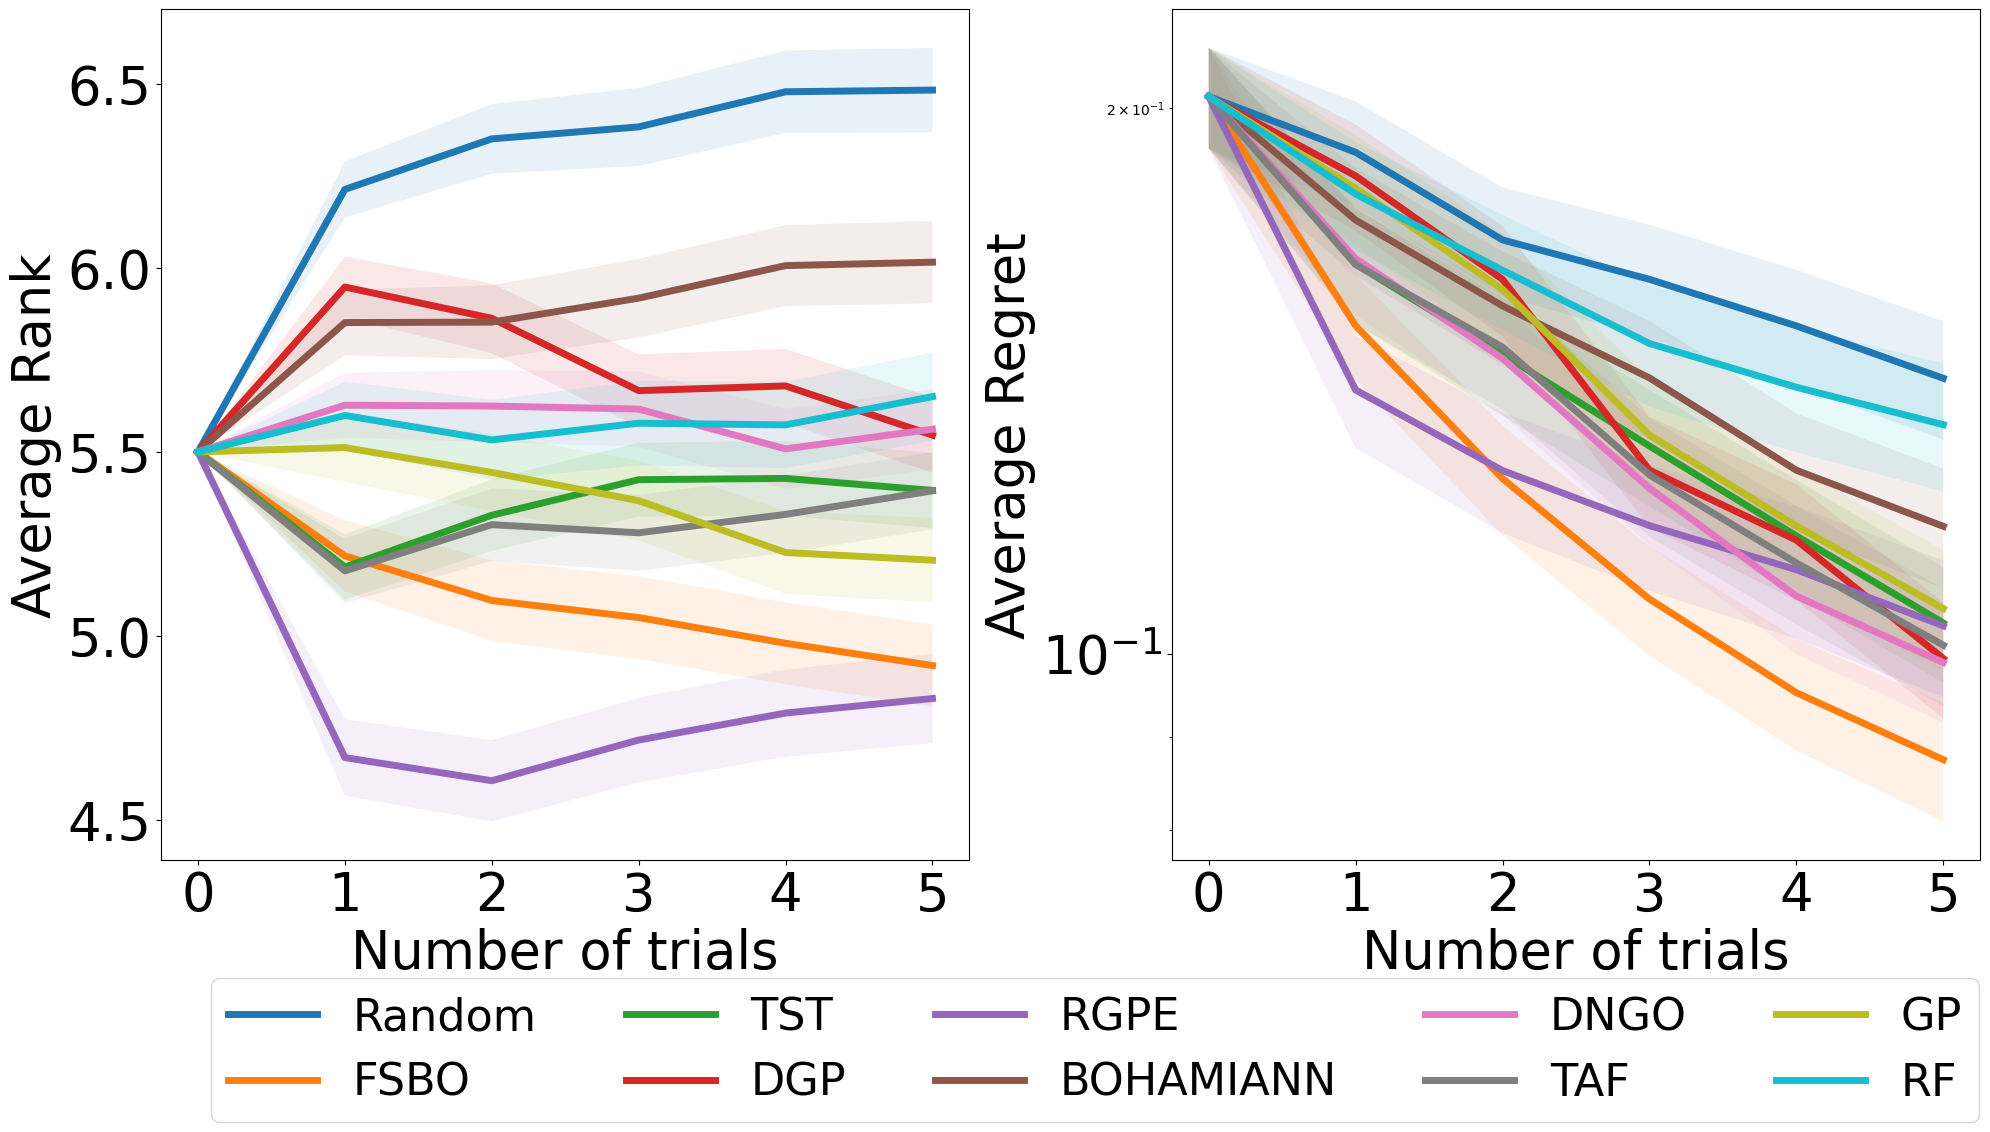
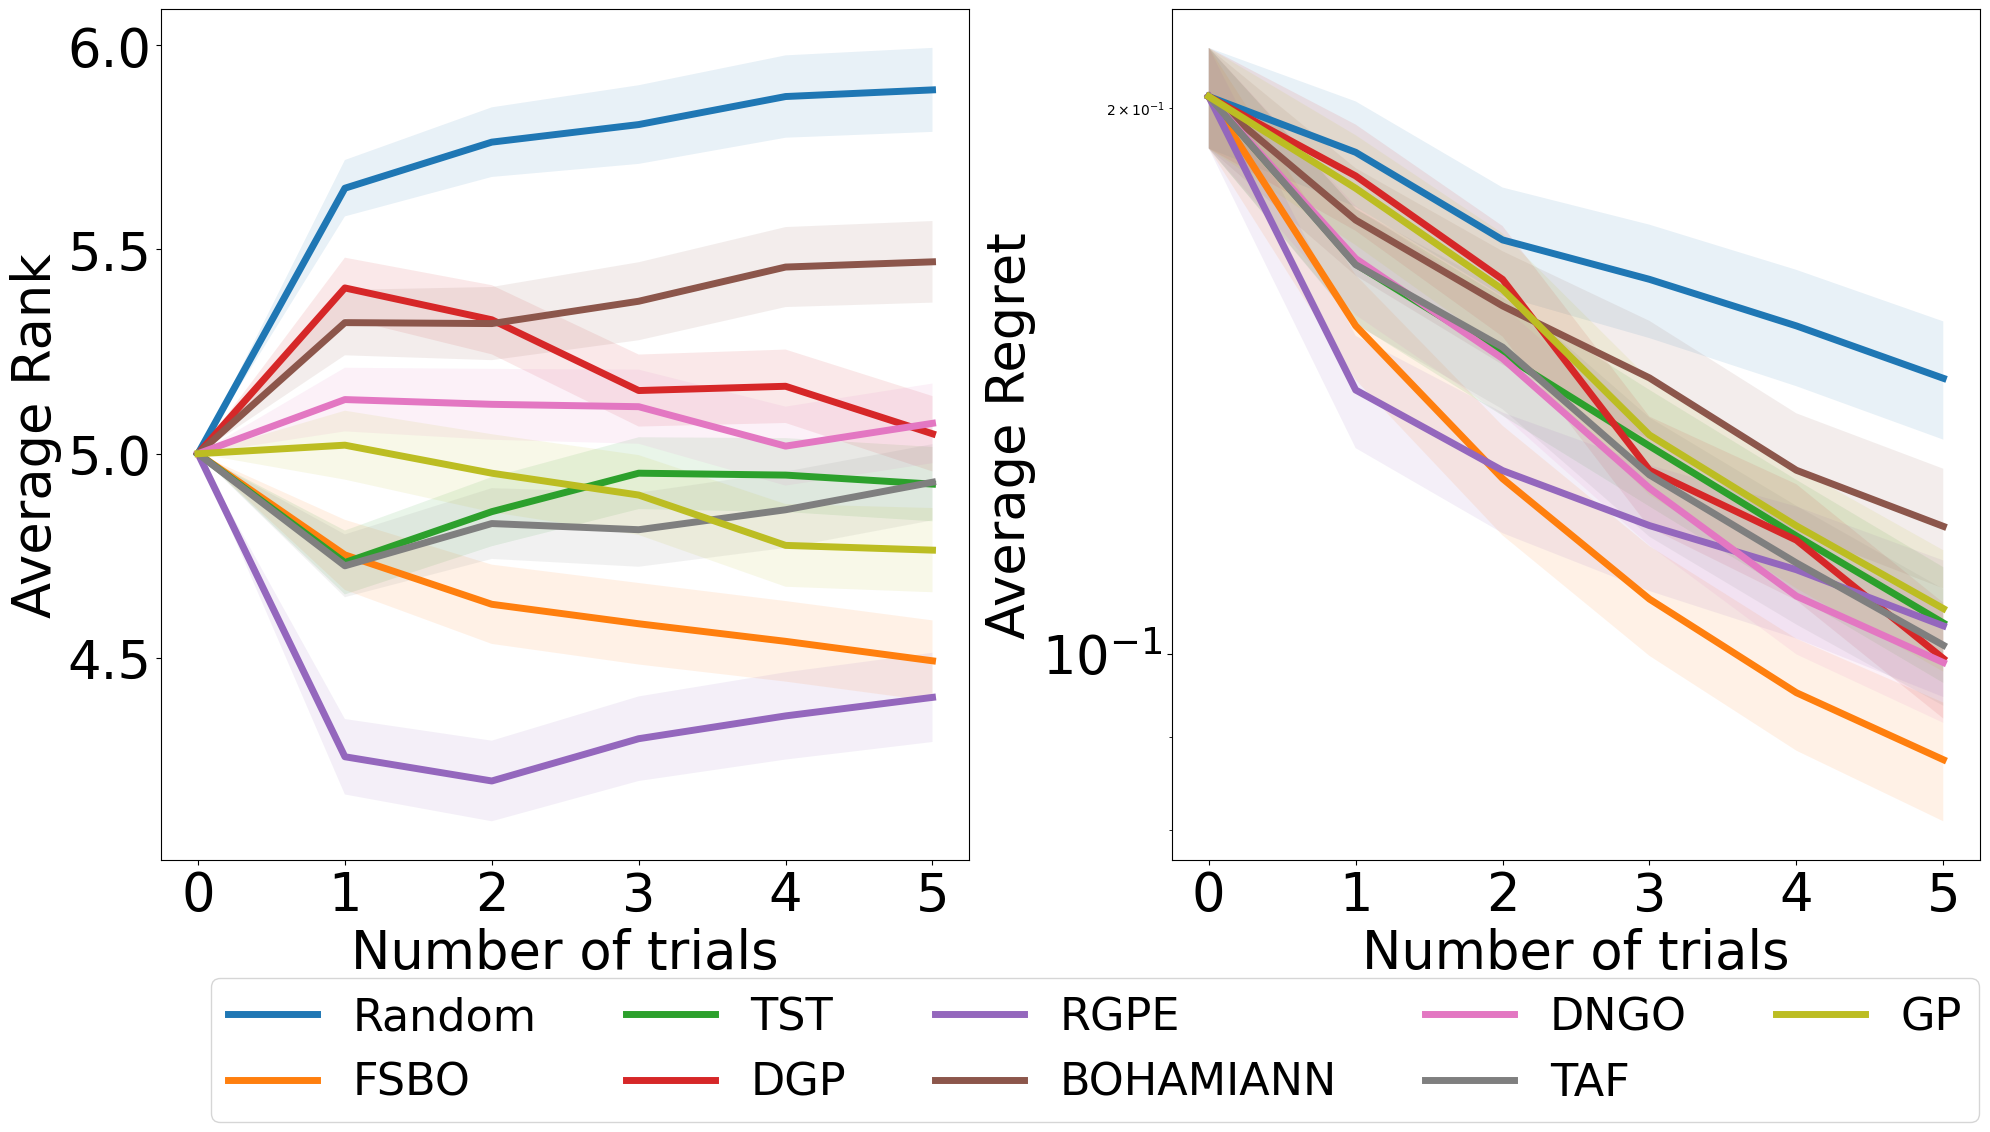
generate results inside the BenchmarkPlotter

diff --git a/benchmark_plot.py b/benchmark_plot.py
@@ -4,17 +4,18 @@ import numpy as np
 import pandas as pd
 from cd_diagram import draw_cd_diagram as draw
 from matplotlib.ticker import MaxNLocator
+from hpob_handler import HPOBHandler
 
 class BenchmarkPlotter:
 
-    def __init__(self, experiments=None, seeds = None, draw_std=True, draw_per_space=True, max_bo_iters = 101, 
+    def __init__(self, experiments=None, seeds = None, draw_std=True, draw_per_space=True, n_trials = 100, 
                     name="benchmark_plot", output_path="plots/", 
                     results_path = "results/", data_path = "hpob-data/"):
         
         super(BenchmarkPlotter, self).__init__()
 
         assert experiments is not None, "Provide the name of the experiments to plot"
-        assert max_bo_iters<102,"The maximum value for max_bo_iters is 101" 
+        assert n_trials<101,"The maximum value for max_bo_iters is 101" 
 
         self.experiments = experiments
         self.seeds = seeds if seeds is not None else ["test0", "test1", "test2", "test3", "test4"]
@@ -24,7 +25,7 @@ class BenchmarkPlotter:
         self.name = name
         self.results_path = results_path
         self.data_path = data_path
-        self.max_bo_iters = max_bo_iters
+        self.n_trials = n_trials + 1
 
         self.load_results()
 
@@ -108,7 +109,7 @@ class BenchmarkPlotter:
 
                     for experiment in self.experiments:
                         try:
-                            regret = [1-x for x in  self.results[experiment][search_space][task][seed]][:self.max_bo_iters]
+                            regret = [1-x for x in  self.results[experiment][search_space][task][seed]][:self.n_trials]
                             
                             task_seed_results.append(regret)
                         except Exception as e:
@@ -178,6 +179,37 @@ class BenchmarkPlotter:
         df.columns = ["dataset_name", "classifier_name", "accuracy"]
         df.accuracy = -df.accuracy
         draw(df, path_name= path+name+".png", title=name)
+
+
+    def generate_results (self, method, n_trials, search_spaces=None, seeds=None):
+
+        hpob_hdlr = HPOBHandler(root_dir=self.data_path, mode="v3-test")
+
+        search_spaces = hpob_hdlr.get_search_spaces() if search_spaces is None else search_spaces
+        seeds = hpob_hdlr.get_seeds() if seeds is None else seeds
+
+        results = {}
+
+        for search_space_id in search_spaces:
+
+            if search_space_id not in results.keys():
+                results[search_space_id] = {} 
+            
+            for dataset_id in hpob_hdlr.get_datasets(search_space_id):
+
+                if dataset_id not in results[search_space_id].keys():
+                    results[search_space_id][dataset_id] = {} 
+
+                for seed in seeds:
+
+                    results[search_space_id][dataset_id][seed]  = hpob_hdlr.evaluate(method, search_space_id = search_space_id, 
+                                                            dataset_id = dataset_id,
+                                                            seed = seed,
+                                                            n_trials = n_trials )
+                                                        
+
+        with open(self.results_path, "w") as f:
+            json.dump(results, f)
 
 
 if __name__=="__main__":

diff --git a/example_benchmark.py b/example_benchmark.py
@@ -2,35 +2,8 @@
 import numpy as np
 import json
 from benchmark_plot import BenchmarkPlotter
-from hpob_handler import HPOBHandler
 from methods.pygpgo import RandomForest
 
-
-def generate_results (method, results_path, data_path, n_trials):
-
-    hpob_hdlr = HPOBHandler(root_dir=data_path, mode="v3-test")
-    results = {}
-
-    for search_space_id in hpob_hdlr.get_search_spaces():
-
-        if search_space_id not in results.keys():
-            results[search_space_id] = {} 
-        
-        for dataset_id in hpob_hdlr.get_datasets(search_space_id):
-
-            if dataset_id not in results[search_space_id].keys():
-                results[search_space_id][dataset_id] = {} 
-
-            for seed in hpob_hdlr.get_seeds():
-
-                results[search_space_id][dataset_id][seed]  = hpob_hdlr.evaluate(method, search_space_id = search_space_id, 
-                                                        dataset_id = dataset_id,
-                                                        seed = seed,
-                                                        n_trials = n_trials )
-                                                    
-
-    with open(results_path, "w") as f:
-        json.dump(results, f)
 
 
 if __name__ == "__main__":
@@ -40,18 +13,18 @@ if __name__ == "__main__":
     output_path = "plots/"
     name = "RF_benchmark"
     results_name = "RF.json"
-    experiments = ["Random", "FSBO", "TST", "DGP", "RGPE" , "BOHAMIANN", "DNGO", "TAF", "GP", "RF"]
+    experiments = ["Random", "FSBO", "TST", "DGP", "RGPE" , "BOHAMIANN", "DNGO", "TAF", "GP"]
     n_trials = 5
 
     method = RandomForest(acq_name="ProbabilityImprovement")
-    generate_results(method, results_path+results_name, data_path, n_trials)
 
-    benchmark_plotter  = BenchmarkPlotter(experiments=experiments, 
+    benchmark_plotter  = BenchmarkPlotter(experiments = experiments, 
                                             name = name,
-                                            max_bo_iters = n_trials+1,
-                                            results_path=results_path, 
-                                            output_path=output_path, 
+                                            n_trials = n_trials,
+                                            results_path = results_path, 
+                                            output_path = output_path, 
                                             data_path = data_path)
 
+    benchmark_plotter.generate_results(method, n_trials)
     benchmark_plotter.plot()
     benchmark_plotter.draw_cd_diagram(bo_iter=5, name="Rank@5")
